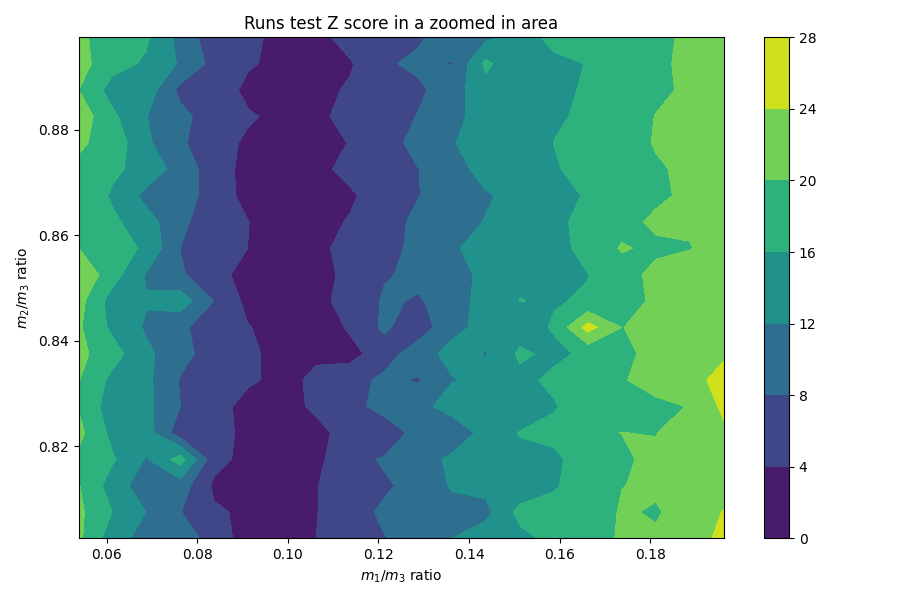
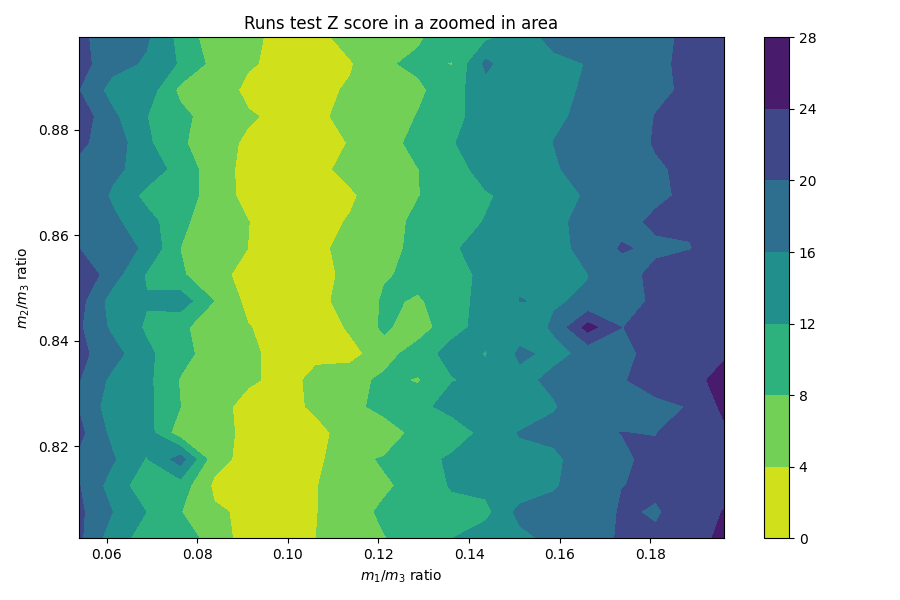
Latest plot updates

diff --git a/compression_comparison/bz2_log_testing.py b/compression_comparison/bz2_log_testing.py
@@ -1,0 +1,95 @@
+import numpy as np
+import matplotlib.pyplot as plt
+import sys
+import bz2
+from auxiliary import *
+import time
+
+sizes = np.logspace(2, 7, 6)
+nSims = 40
+
+generated_all_percs = []
+for i in range(len(sizes)):
+    generated_singlesize_percs = []
+
+    for j in range(nSims):
+        print(f"Processed {(i*40+j)/(40*6)*100}% of generated strings.")
+        print(f"Processing {i}, number {j}.")
+
+        start_time = time.time()
+        bites = read_bytes_from_file(
+            "Experiments/3particlestrings/bites{}_{}".format(str(int(sizes[i])), str(j))
+        )
+        end_time = time.time()
+        print(
+            f"It took me {end_time-start_time:.2f}s to read the bites object in memory."
+        )
+        size = sys.getsizeof(bites)
+        comp_size = sys.getsizeof(bz2.compress(bites))
+
+        generated_singlesize_percs.append(100 * comp_size / size)
+
+    generated_all_percs.append(generated_singlesize_percs)
+
+lengths = [int(size) for size in sizes]
+
+random_all_percs = []
+for i in range(len(sizes)):
+    random_singlesize_percs = []
+
+    for j in range(nSims):
+        print(f"Processed {(i*40+j)/(40*6)*100}% of random strings.")
+        print(f"Processing {i}, number {j}.")
+
+        bites = read_bytes_from_file(
+            "Experiments/3particlestrings/randombites{}_{}".format(
+                str(int(sizes[i])), str(j)
+            )
+        )
+        size = sys.getsizeof(bites)
+        comp_size = sys.getsizeof(bz2.compress(bites))
+
+        random_singlesize_percs.append(100 * comp_size / size)
+
+    random_all_percs.append(random_singlesize_percs)
+
+start_time = time.time()
+# Find means and stds
+generated_percentage_means = [np.mean(size) for size in generated_all_percs]
+random_percentage_means = [np.mean(size) for size in random_all_percs]
+
+generated_percentage_stds = [jacknife_error(size) for size in generated_all_percs]
+random_percentage_stds = [jacknife_error(size) for size in random_all_percs]
+
+means = [generated_percentage_means, random_percentage_means]
+errs = [generated_percentage_stds, random_percentage_stds]
+end_time = time.time()
+print(
+    f"Finding the mean and the standard deviation took me {end_time-start_time:.2f}s."
+)
+
+labels = [str(length) for length in lengths]
+
+fig, ax = plt.subplots(figsize=(12, 8))
+
+ax.loglog(lengths, [perc - 100 for perc in random_percentage_means])
+ax.set_ylabel("Compression percentage")
+ax.set_title("Compression percentage, bz2 compression algorithm\n only random strings")
+ax.set_xlabel("Number of bits in the string")
+plt.savefig("Plots/bz2_loglog_onlyrandom")
+plt.close()
+
+""" styles = [":b", "--r"]
+labels = ["Compression percentage \nfor collision generated strings",
+          "Compression percentage \nfor random strings"]
+for i in range(2):
+    ax.loglog(lengths, means[i], styles[i], linewidth=2, label=labels[i])
+    
+ax.set_ylabel("Compression percentage")
+ax.set_title("Compression percentage, bz2 compression algorithm")
+ax.set_xlabel("Number of bits in the string")
+ax.legend()
+
+fig.tight_layout()
+plt.savefig("Plots/bz2_loglog")
+plt.close() """

diff --git a/2d_plot_scripts/custom_and_bz2_2d.py b/2d_plot_scripts/custom_and_bz2_2d.py
@@ -28,7 +28,7 @@ for i in range(20):
             bites = bitstring_to_bytes_compact(string)
             sizeC = len(string)
             sizeB = sys.getsizeof(bites)
-            comp_sizeC = len(encoder.encode_b(string))
+            comp_sizeC = len(encoder.encode_a(string))
             comp_sizeB = sys.getsizeof(bz2.compress(bites))
             columnC.append(100 * comp_sizeC / sizeC)
             columnB.append(100 * comp_sizeB / sizeB)
@@ -43,18 +43,25 @@ plotB = [[np.mean(bz2s[i][j]) for i in range(20)] for j in range(20)]
 
 fig, axes = plt.subplots(1, 2, figsize=(16, 6))
 
-plot0 = axes[0].contourf(plotC, extent=[0, 1, 0, 1], origin="lower")
+x = np.linspace(0.01, 1, 20)
+y = np.linspace(0.01, 1, 20)
+X, Y = np.meshgrid(x, y)
+plot0 = axes[0].contourf(plotC, extent=[0, 1, 0, 1], origin="lower", vmin=0, vmax=100)
 plt.colorbar(plot0, ax=axes[0])
+#c = axes[0].pcolor(X, Y, plotC, vmin=0, vmax=180)
+#fig.colorbar(c, ax=axes[0])
 axes[0].set_title("Compression percentage custom algorithm vs mass ratios.")
 axes[0].set_xlabel("$m_1/m_3$ ratio")
 axes[0].set_ylabel("$m_2/m_3$ ratio")
 
-plot1 = axes[1].contourf(plotB, extent=[0, 1, 0, 1], origin="lower")
+plot1 = axes[1].contourf(plotB, extent=[0, 1, 0, 1], origin="lower", vmin=0, vmax=100)
 plt.colorbar(plot1, ax=axes[1])
+#c = axes[1].pcolor(X, Y, plotB, vmin=0, vmax=180)
+#fig.colorbar(c, ax=axes[1])
 axes[1].set_title("Compression percentage bz2 algorithm vs mass ratios.")
 axes[1].set_xlabel("$m_1/m_3$ ratio")
 axes[1].set_ylabel("$m_2/m_3$ ratio")
 
 plt.tight_layout()
-plt.savefig("Plots/2d_plots/custom_bz2_2d")
+plt.savefig("Plots/2d_plots/custom_encodeA_bz2_2d")
 plt.close()

diff --git a/2d_plot_scripts/runs1d_and_zoomzoom.py b/2d_plot_scripts/runs1d_and_zoomzoom.py
@@ -1,6 +1,7 @@
 import matplotlib.pyplot as plt
 import numpy as np
 from auxiliary import *
+import matplotlib
 
 sratios = np.linspace(0.08, 0.12, 50)
 Zs = []
@@ -8,6 +9,7 @@ Zs = []
 for i in range(50):
     Zratio = []
     for j in range(40):
+        print(f"Processing i={i} and j={j}.")
         string = convert_to_string_file(
             "Experiments/runs_mass_tests1d/index" + str(i) + "_" + str(j)
         )
@@ -38,6 +40,7 @@ for i in range(40):
     for j in range(40):
         column = []
         for k in range(10):
+            print(f"Processing i={i}, j={j}, k={k}.")
             string = convert_to_string_file(
                 "Experiments/runs_2d_zoomzoom/index"
                 + str(i)
@@ -49,11 +52,12 @@ for i in range(40):
             result = runsTest(string)
             if result is not None:
                 column.append(abs(result))
+            print(f"Processed {(i*400+j*10+k)/(10*40*40)*100}%.")
         row.append(column)
     Zs.append(row)
 plotZs = [[np.mean(Zs[i][j]) for i in range(40)] for j in range(40)]
 
-plot = axes[1].contourf(plotZs, extent=[0.08, 0.12, 0.8, 0.9], origin="lower")
+plot = axes[1].contourf(plotZs, extent=[0.08, 0.12, 0.8, 0.9], origin="lower", cmap=matplotlib.cm.get_cmap('viridis_r'))
 plt.colorbar(plot, ax=axes[1])
 axes[1].set_title("Runs test Z score in a zoomed-in area")
 axes[1].set_xlabel("$m_1/m_3$ ratio")

diff --git a/compression_comparison/unified_plot.py b/compression_comparison/unified_plot.py
@@ -31,11 +31,11 @@ for i in range(len(sizes)):
         print(f"Processing size {i}, number {j}.")
 
         start_time = time.time()
-        string = convert_to_string_file(
+        string = convert_to_string_file_Graeme(
             "Experiments/3particlestrings/size{}_{}".format(str(int(sizes[i])), str(j))
         )
         bites = read_bytes_from_file(
-            "Experiments/3particlestrings/bites{}_{}".format(str(int(sizes[i])), str(j))
+            "Experiments/3particlestrings/Graeme_bites{}_{}".format(str(int(sizes[i])), str(j))
         )
         end_time = time.time()
         print(
@@ -84,7 +84,7 @@ for i in range(len(sizes)):
         #)
         randomString = "".join([str(secrets.randbelow(2)) for i in range(lengths[i])])
         bites = read_bytes_from_file(
-            "Experiments/3particlestrings/randombites{}_{}".format(
+            "Experiments/3particlestrings/Graeme_randombites{}_{}".format(
                 str(int(sizes[i])), str(j)
             )
         )
@@ -231,5 +231,5 @@ ax.bar_label(rects1, padding=3)
 ax.bar_label(rects2, padding=3)
 
 fig.tight_layout()
-plt.savefig("Plots/comparison_graphs/unified_comparison")
+plt.savefig("Plots/comparison_graphs/unified_comparison_GraemeStrings")
 plt.close()

diff --git a/2d_plot_scripts/runs_2d_zoomzoom.py b/2d_plot_scripts/runs_2d_zoomzoom.py
@@ -2,6 +2,7 @@ import matplotlib.pyplot as plt
 import numpy as np
 from auxiliary import *
 from simulation import *
+import matplotlib
 
 ratios13 = np.linspace(0.08, 0.12, 40)
 ratios23 = np.linspace(0.8, 0.9, 40)
@@ -23,6 +24,7 @@ for i in range(40):
     for j in range(40):
         column = []
         for k in range(10):
+            print(f"Processing i={i}, j={j}, k={k}.")
             string = convert_to_string_file(
                 "Experiments/runs_2d_zoomzoom/index"
                 + str(i)
@@ -34,12 +36,13 @@ for i in range(40):
             result = runsTest(string)
             if result is not None:
                 column.append(abs(result))
+            print(f"Processed {(i*400+j*10+k)/(10*40*40)*100}%.")
         row.append(column)
     Zs.append(row)
 plotZs = [[np.mean(Zs[i][j]) for i in range(40)] for j in range(40)]
 
 fig, axes = plt.subplots(1, 1, figsize=(9, 6))
-plot = axes.contourf(plotZs, extent=[0.08, 0.12, 0.8, 0.9], origin="lower")
+plot = axes.contourf(plotZs, extent=[0.08, 0.12, 0.8, 0.9], origin="lower", cmap=matplotlib.cm.get_cmap('viridis_r'))
 plt.colorbar(plot, ax=axes)
 axes.set_title("Runs test Z score in a zoomed-in area")
 axes.set_xlabel("$m_1/m_3$ ratio")

diff --git a/2d_plot_scripts/runs_2d_zoom.py b/2d_plot_scripts/runs_2d_zoom.py
@@ -2,6 +2,7 @@ import matplotlib.pyplot as plt
 import numpy as np
 from auxiliary import *
 from simulation import *
+import matplotlib
 
 ratios13 = np.linspace(0.05, 0.2, 20)
 ratios23 = np.linspace(0.8, 0.9, 20)
@@ -29,18 +30,20 @@ for i in range(20):
     for j in range(20):
         column = []
         for k in range(5):
+            print(f"Processing i={i}, j={j}, k={k}.")
             string = convert_to_string_file(
                 "Experiments/runs_2d_zoom/index" + str(i) + "_" + str(j) + "_" + str(k)
             )
             result = runsTest(string)
             if result is not None:
                 column.append(abs(result))
+            print(f"Processed {(i*100+j*5+k)/(5*20*20)*100}%.")
         row.append(column)
     Zs.append(row)
 plotZs = [[np.mean(Zs[i][j]) for i in range(20)] for j in range(20)]
 
 fig, axes = plt.subplots(1, 1, figsize=(9, 6))
-plot = axes.contourf(plotZs, extent=[0.05, 0.2, 0.8, 0.9], origin="lower")
+plot = axes.contourf(plotZs, extent=[0.05, 0.2, 0.8, 0.9], origin="lower", cmap=matplotlib.cm.get_cmap('viridis_r'))
 plt.colorbar(plot, ax=axes)
 axes.set_title("Runs test Z score in a zoomed in area")
 axes.set_xlabel("$m_1/m_3$ ratio")

diff --git a/compression_comparison/write_down_bites_Graeme.py b/compression_comparison/write_down_bites_Graeme.py
@@ -12,7 +12,7 @@ for i in range(len(sizes)):
         print(f"{(i*40+j)/(6*40)*100:.2f}% done.")
 
         t1 = time.time()
-        string = convert_to_string_file(
+        string = convert_to_string_file_Graeme(
             "Experiments/3particlestrings/size{}_{}".format(str(int(sizes[i])), str(j))
         )
         t2 = time.time()
@@ -26,7 +26,7 @@ for i in range(len(sizes)):
         t1 = time.time()
         write_to_file_bytes_object(
             bites,
-            "Experiments/3particlestrings/bites{}_{}".format(
+            "Experiments/3particlestrings/Graeme_bites{}_{}".format(
                 str(int(sizes[i])), str(j)
             ),
         )
@@ -54,7 +54,7 @@ for i, length in enumerate(lengths):
         t1 = time.time()
         write_to_file_bytes_object(
             bites,
-            "Experiments/3particlestrings/randombites{}_{}".format(
+            "Experiments/3particlestrings/Graeme_randombites{}_{}".format(
                 str(int(sizes[i])), str(j)
             ),
         )

diff --git a/compression_comparison/auxiliary.py b/compression_comparison/auxiliary.py
@@ -57,6 +57,36 @@ def convert_to_string_file(filepath):
     return string
 
 
+def convert_to_string_file_Graeme(filepath):
+    f = open(filepath)
+    collisions = []
+    f.readline()
+    f.readline()
+    for line in f.readlines():
+        left, right = line.strip().split(" ")
+        left = int(left) + 3 if int(left) < 0 else int(left)
+        right = int(right) + 3 if int(right) < 0 else int(right)
+        
+        if (left==1 and right==2):
+            s = "A"
+        elif (left==2 and right==0):
+            s = "B"
+        elif (left==0 and right==1):
+            s = "C"
+        else:
+            print(left, right)
+            raise Exception("Error")
+        collisions.append(s)
+
+    string = ""
+    for i in range(1, len(collisions) - 1):
+        if collisions[i-1]==collisions[i+1]:
+            string += "1"
+        else:
+            string += "0"
+    return string
+
+
 def write_to_file_bytes_object(bites, filename):
     f = open(filename, "wb")
     f.write(bites)

diff --git a/2d_plot_scripts/runs_vs_massratio_2d.py b/2d_plot_scripts/runs_vs_massratio_2d.py
@@ -1,8 +1,7 @@
 import matplotlib.pyplot as plt
 import numpy as np
 from auxiliary import *
-
-plt.rcParams["font.size"] = "20"
+import matplotlib
 
 Zs = []
 
@@ -30,13 +29,13 @@ errs = [[jacknife_error(Zs[i][j]) for i in range(20)] for j in range(20)]
 
 fig, axes = plt.subplots(1, 2, figsize=(16, 6))
 
-plot0 = axes[0].contourf(plotZs, extent=[0, 1, 0, 1], origin="lower")
+plot0 = axes[0].contourf(plotZs, extent=[0, 1, 0, 1], origin="lower", cmap=matplotlib.cm.get_cmap('viridis_r'))
 plt.colorbar(plot0, ax=axes[0])
 axes[0].set_title("Runs test Z score vs mass ratios.")
 axes[0].set_xlabel("$m_1/m_3$ ratio")
 axes[0].set_ylabel("$m_2/m_3$ ratio")
 
-plot1 = axes[1].contourf(errs, extent=[0, 1, 0, 1], origin="lower")
+plot1 = axes[1].contourf(errs, extent=[0, 1, 0, 1], origin="lower", cmap=matplotlib.cm.get_cmap('viridis_r'))
 plt.colorbar(plot1, ax=axes[1])
 axes[1].set_title("Variance in the Z score of the Runs test")
 axes[1].set_xlabel("$m_1/m_3$ ratio")
